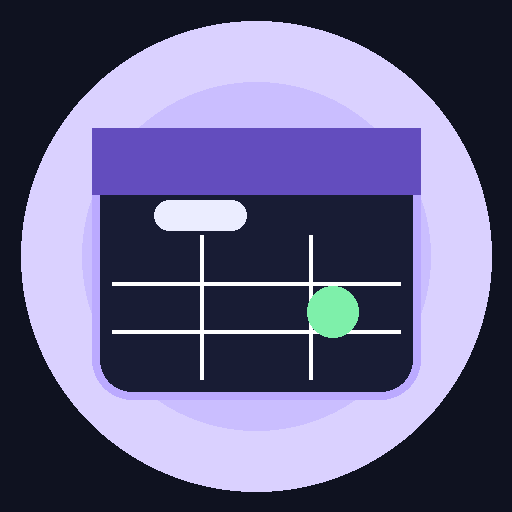
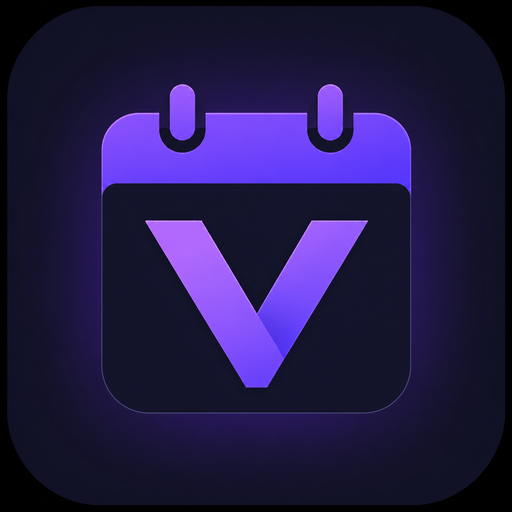
New Images!

diff --git a/index.html b/index.html
@@ -9,6 +9,9 @@
   <meta name="apple-mobile-web-app-status-bar-style" content="black-translucent" />
   <meta name="apple-mobile-web-app-title" content="My Calendar" />
   <link rel="manifest" href="manifest.json" />
+  <link rel="icon" href="favicon.ico" sizes="any" />
+  <link rel="icon" type="image/png" sizes="32x32" href="icons/favicon-32x32.png" />
+  <link rel="icon" type="image/png" sizes="16x16" href="icons/favicon-16x16.png" />
   <link rel="apple-touch-icon" href="icons/icon-192.png" />
   <link rel="stylesheet" href="style.css" />
 </head>